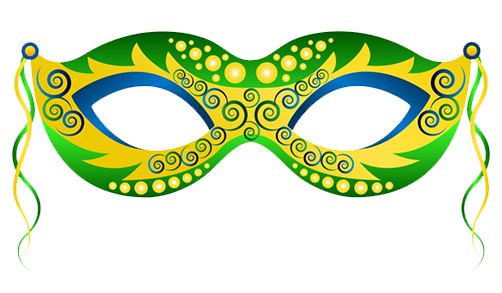
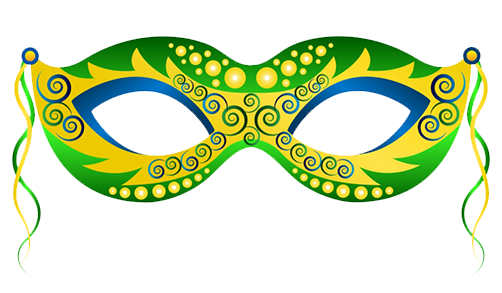
Modify default params, include new image

Changed region(s): [[0.0, 0.0922, 0.9861, 0.9215]]

diff --git a/examples/puploc_masquerade/puploc.py b/examples/puploc_masquerade/puploc.py
@@ -17,7 +17,7 @@ px, py = None, None
 show_face = False
 
 base_dir = "images"
-source_imgs = ["sunglasses.png", "neon-yellow.png", "neon-green.png", "carnival.png", "neon-disco.png"]
+source_imgs = ["sunglasses.png", "neon-yellow.png", "neon-green.png", "carnival.png", "carnival2.png", "neon-disco.png"]
 img_idx = 0
 
 # define class GoPixelSlice to map to:

diff --git a/examples/puploc_masquerade/puploc.go b/examples/puploc_masquerade/puploc.go
@@ -103,9 +103,9 @@ func clusterDetection(pixels []uint8, rows, cols int) []pigo.Detection {
 		Dim:    cols,
 	}
 	cParams := pigo.CascadeParams{
-		MinSize:     60,
+		MinSize:     80,
 		MaxSize:     600,
-		ShiftFactor: 0.1,
+		ShiftFactor: 0.15,
 		ScaleFactor: 1.1,
 		ImageParams: *imageParams,
 	}
